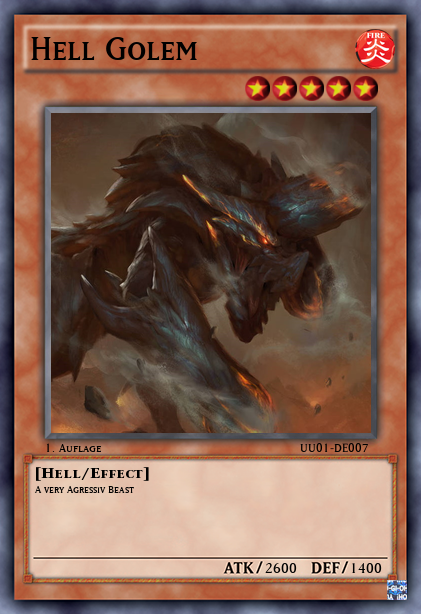
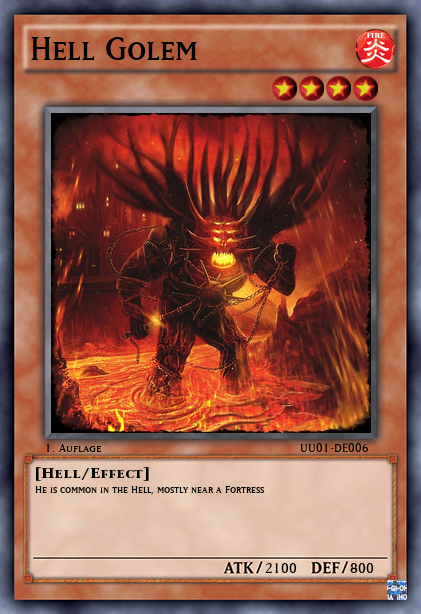
Updated Monsters

diff --git a/Creator.py b/Creator.py
@@ -1,10 +1,10 @@
 import scripts.CardMaker
 #All Important Information are Set here for the CardMaker
 card        = "Effect"
-image_card  = "HellBeast.jpg"
+image_card  = "HellGolem.jpg"
 
 auflage     = "1. Auflage"
-card_id     = "UU01-DE007"
+card_id     = "UU01-DE006"
 
 Title       = "Hell Golem"
 Attribute   = "Fire"
@@ -12,14 +12,14 @@ Attribute   = "Fire"
 title_color = "black"
 desc_color  = "black"
 
-Level       = 5
+Level       = 4
 lvlcolor    = "red"
 
 Type        = "[Hell/Effect]"
-Description = "A very Agressiv Beast"
+Description = "He is common in the Hell, mostly near a Fortress"
 
-Attack      = "2600"
-Defense     = "1400"
+Attack      = "2100"
+Defense     = "800"
 
 
 
